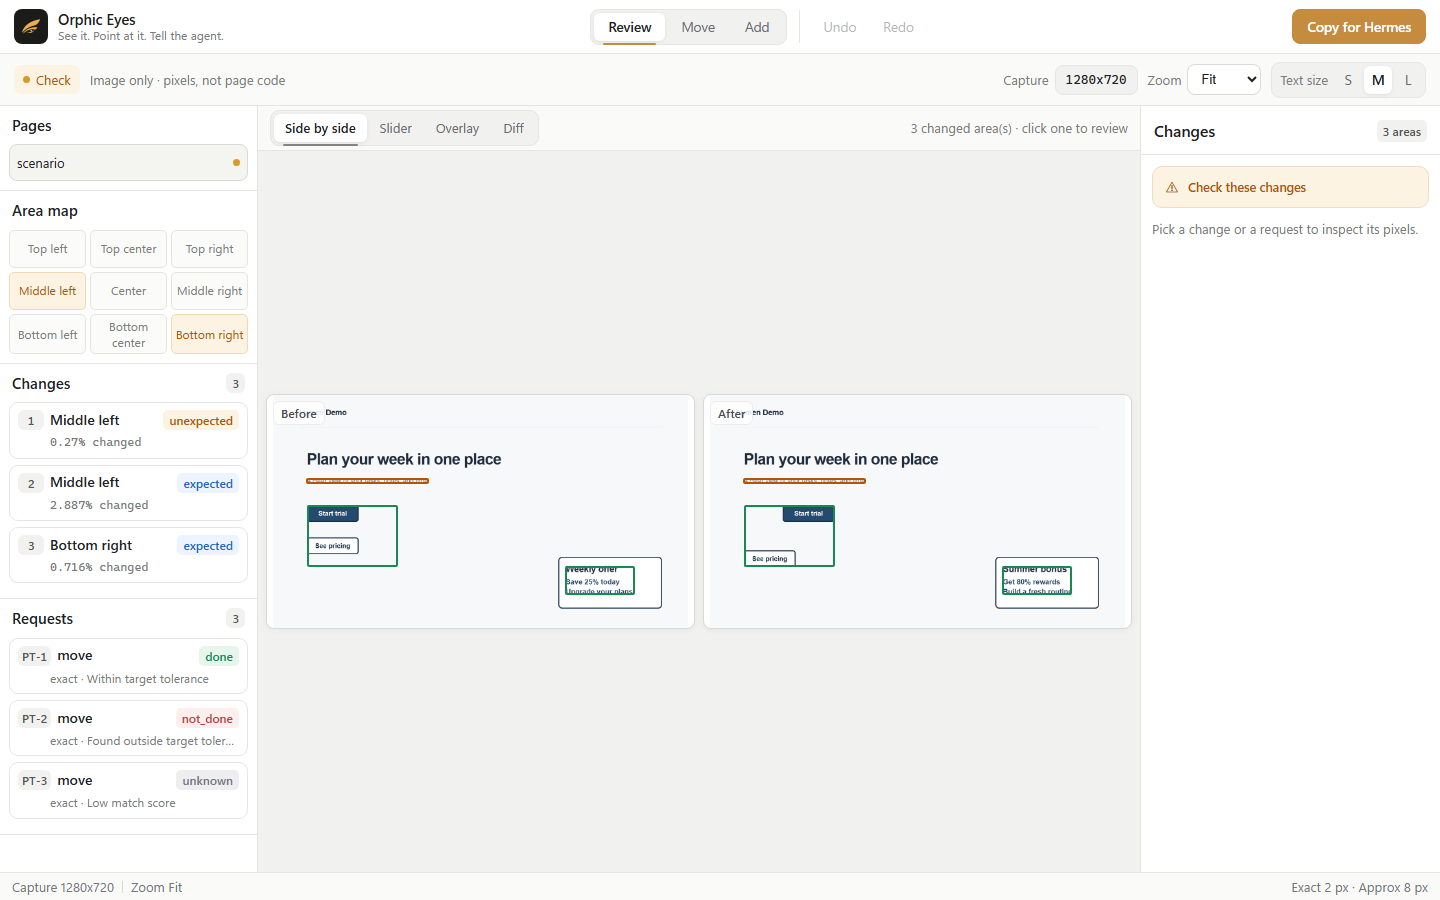
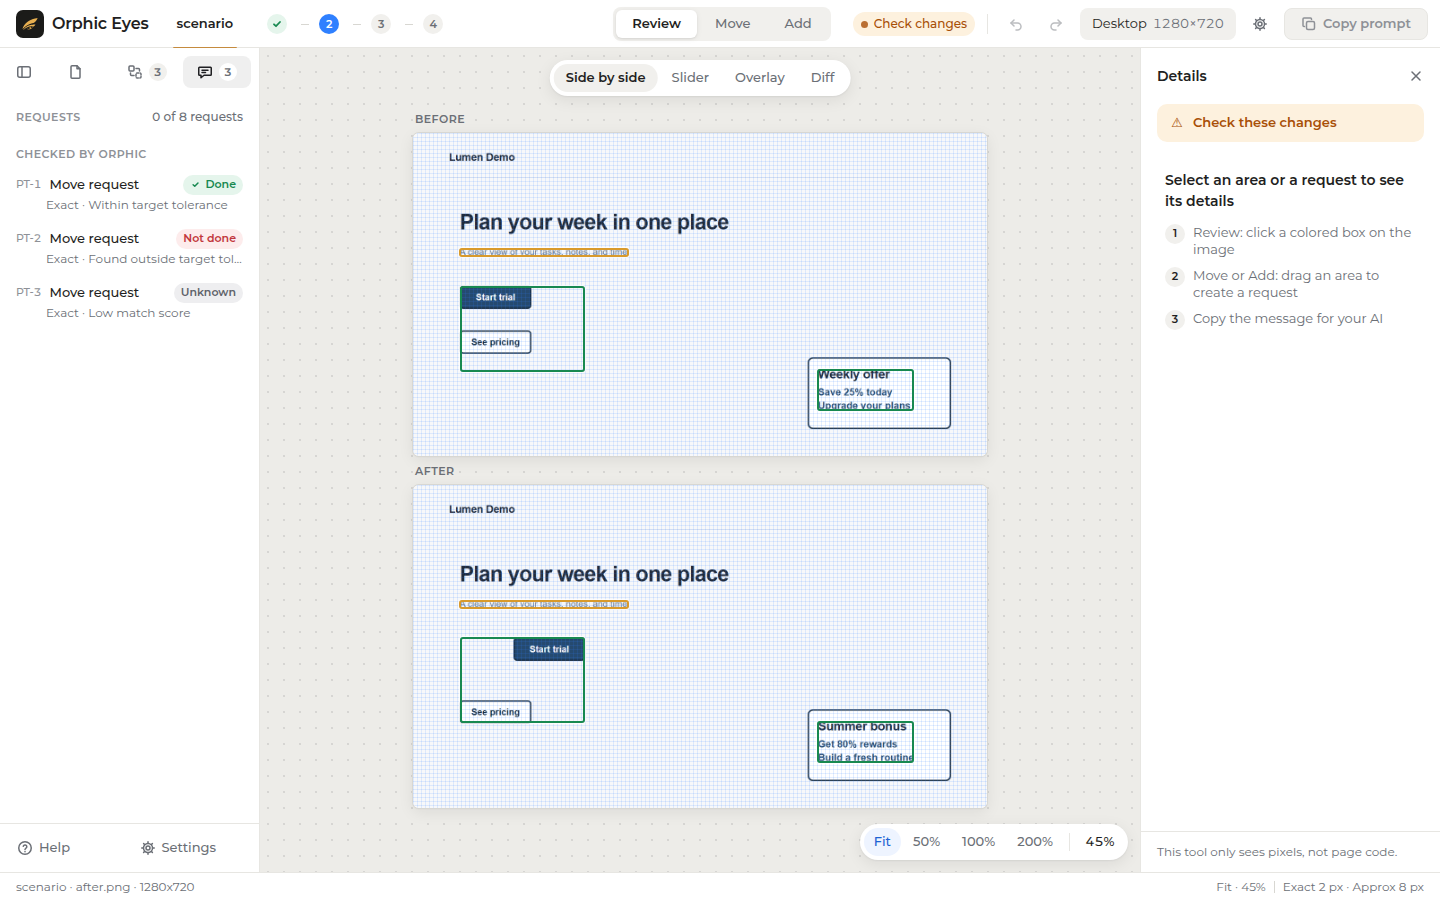
docs: refresh README screenshots for the current report UI
Replace the review screenshot and add Move and Add shots rendered from the current report template with the Lumen Demo data. Describe Copy prompt, Copy fix message, theme, text size, and shortcuts as they are in the template.

diff --git a/README.md b/README.md
@@ -4,12 +4,12 @@
 
 # Orphic Eyes
 
-*See it. Point at it. Tell the agent.*
+*Review the pixels. Point at an area. Copy a prompt.*
 
 Orphic Eyes verifies UI edits from before/after screenshots using pixels, with no
 DOM, CSS or page-code inspection. Each requested change gets its own verdict,
 kept separate from the visual status. The default offline HTML report lets you
-review differences and prepare instructions to copy back to Hermes.
+review differences and copy a prompt to paste into an AI assistant.
 
 Tested with Python 3.12 and 3.14; `/orphic doctor` checks for 3.12 or newer.
 Pillow is the only Python dependency, and an installed Edge, Chrome or Chromium
@@ -44,9 +44,12 @@ the requested edits can be verified. Read both before deciding what to fix.
 
 ![Review report with three request verdicts](docs/images/review-verdicts.png)
 
-All pages shown here are from the synthetic Lumen Demo scenario.
+![Move mode with guides on a selected area](docs/images/move-guides.png)
 
-<!-- TODO: add move-guides.png / add-mode.png -->
+![Add mode placing a new element](docs/images/add-mode.png)
+
+All pages shown here are from the synthetic Lumen Demo scenario. Review is
+shown Side by side; a report opens on Slider. Move and Add show the After image.
 
 ## Demo
 
@@ -72,13 +75,29 @@ select one explicitly: `py -3.12 -B demo/run_demo.py --repeat 2`.
 
 ## Point & Tell in the report UI
 
-- **Review:** inspect visual changes, request verdicts and before/after images.
-- **Move:** select an image area and describe its intended destination.
-- **Add:** describe new content and where it should go. Add instructions are
-  not engine requests and are not verified by the engine.
-- **Copy for Hermes:** copy the instructions, paste them into Hermes and press
-  Enter. Nothing is sent automatically.
-- **Text size S/M/L:** adjust report text size.
+A report opens in Review, on the Slider view. Keys 1, 2, and 3 switch mode.
+
+- **Review:** inspect changed areas and the separate request verdicts. The
+  picture can be Side by side, Slider, Overlay, or Diff. Pages, Changes, and
+  Requests are sidebar tabs. The Changes tab includes the area map.
+- **Move:** drag an area on the After image and set where it should go. The bar
+  has Grid, Snap, Axis lock, and Exact (2 px) or Approx (8 px). Guides mark the
+  original edges and the new edges, with the distance in pixels. Tools are
+  Select (V), Move (M), and Hand (hold Space).
+- **Add:** drag where new content should appear and describe it. Add
+  instructions are not engine requests and are not verified by the engine.
+  Place (P) draws the area.
+- **Copy prompt** (Ctrl+Enter): copies the Move and Add requests drawn in this
+  session as one prompt for any AI assistant. It will not copy until this
+  session has a Move or Add request. Checked engine verdicts are not part of
+  that prompt. Paste it yourself. Nothing is sent automatically.
+- **Copy fix message:** with one changed area selected, copies a short note for
+  that area only.
+- **Undo / Redo:** Ctrl+Z and Ctrl+Shift+Z.
+- **Text size and theme:** Settings (Ctrl+,) → Appearance. Text size is S, M,
+  or L and scales the report labels. Theme is Light, Dark, or System.
+- **Shortcuts:** press ? for the list in the report. The command palette is
+  Ctrl+K.
 
 Motion and animation cannot be verified from screenshots.
 
@@ -123,8 +142,8 @@ Hermes surfaces: `orphic_baseline`, `orphic_compare`, `orphic_approve`,
 skills, dashboard or Desktop pages are registered.
 
 The default report uses inline CSS/JavaScript, embedded JSON and adjacent local
-images for offline review. Copy for Hermes writes instructions to the clipboard;
-pasting them into Hermes remains manual.
+images for offline review. Copy prompt and Copy fix message write text to the
+clipboard. Pasting that text into an assistant remains manual.
 
 ## Install
 
